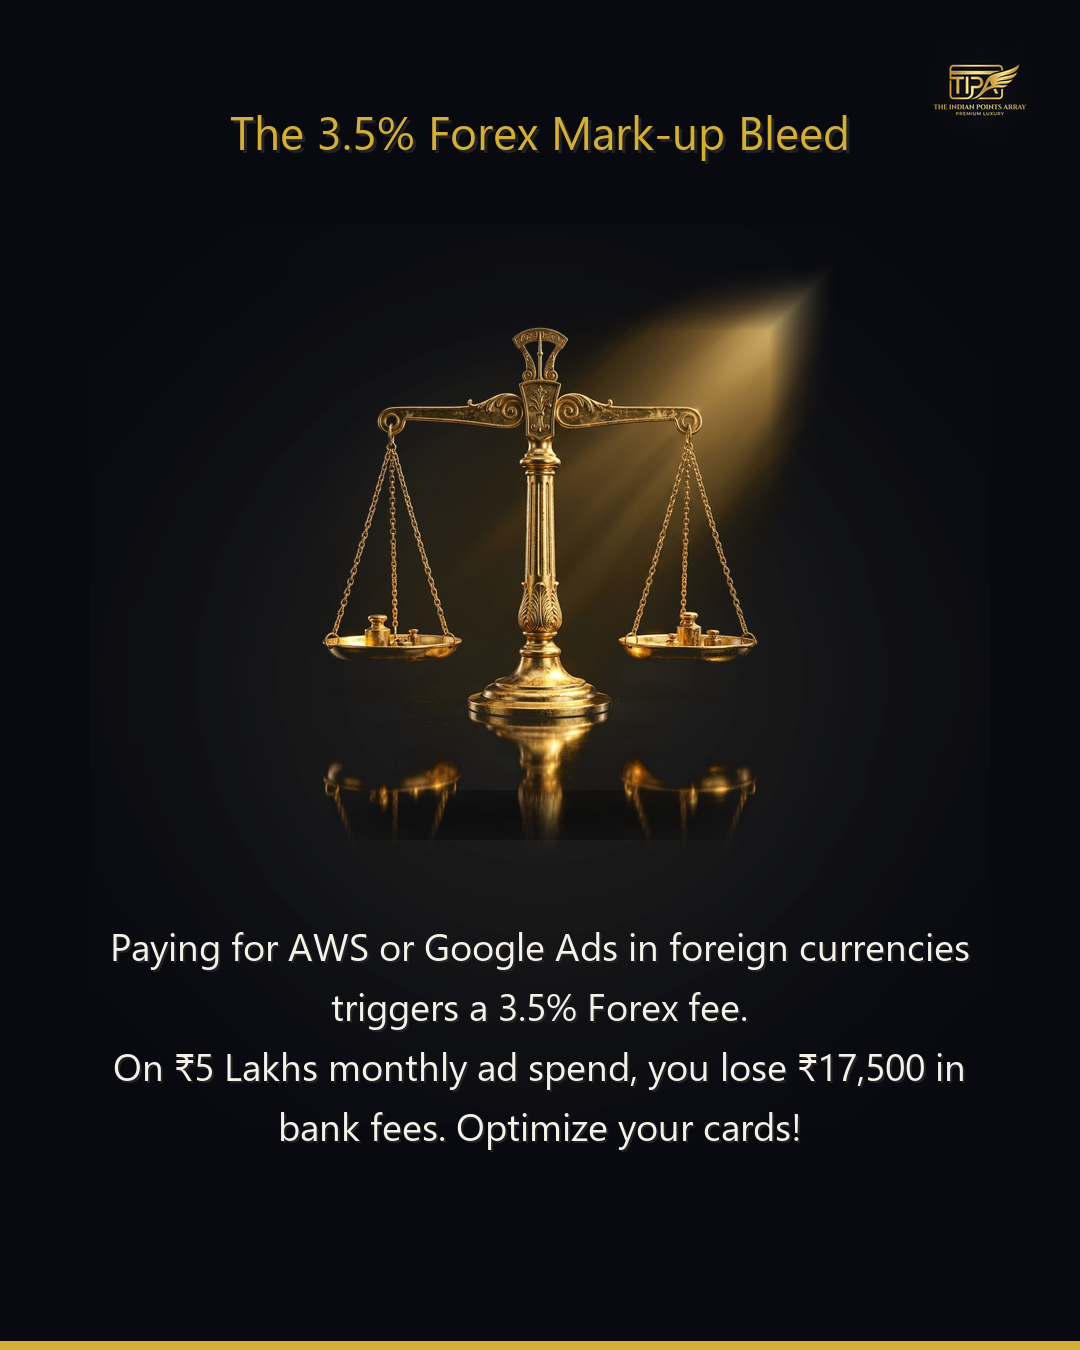
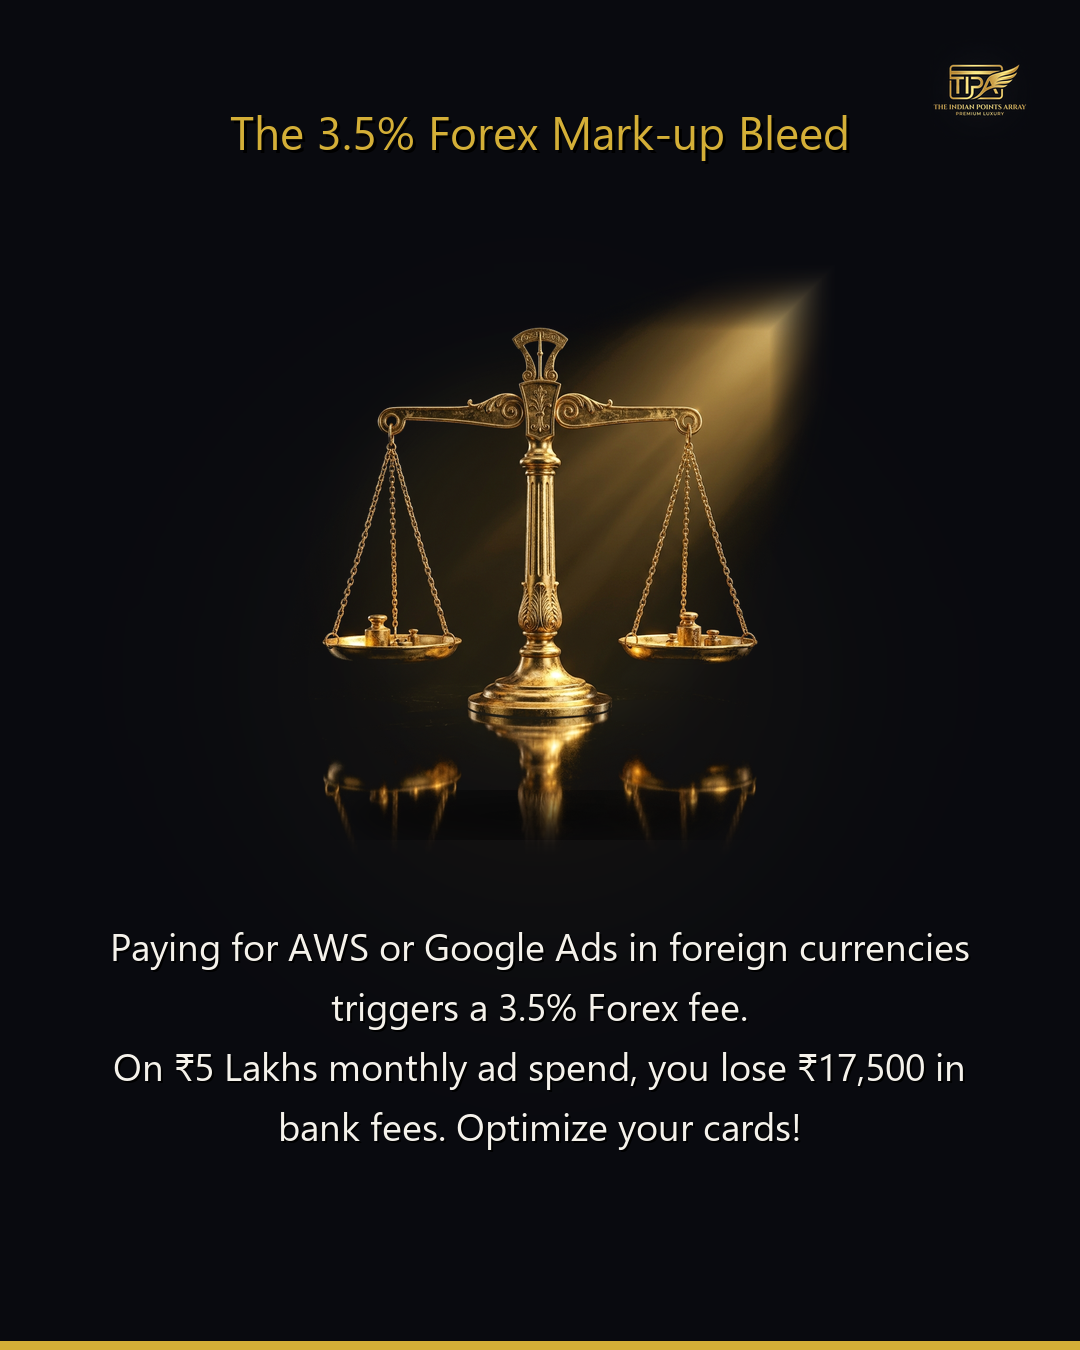
docs: update handover instructions and KI, and include final regenerated slide assets

diff --git a/indiaCardRedemptions/docs/reference/handover_instructions.md b/indiaCardRedemptions/docs/reference/handover_instructions.md
@@ -2,27 +2,28 @@
 
 **Date:** May 29, 2026  
 **Project:** The Indian Points Array (Loyalty Milestones & Arbitrage Tracker)  
-**Status:** All structural assets, calendar schedules, and Week 1–3 visual slide decks have been fully generated and pushed.
+**Status:** Complete! All structural assets, 12-week social media slide decks (all 24 posts, 96+ slide assets), and the React Native mobile app rebranding have been fully generated, validated, and pushed.
 
 ---
 
 ## 🚀 Current Status & Accomplishments
 
-### 1. Rebranding Standardized
-*   All copy and documentation updated to reflect **"The Indian Points Array"** (TPA).
-*   All financial metrics, pricing values, and calculations standardized in **INR (₹)**.
-*   Legacy Axis Bank direct-to-Qatar transfers replaced with the new **British Airways (BA) Bypass** route.
+### 1. React Native App Rebranding Complete
+*   All screens ([`index.tsx`](file:///c:/Users/SAM/Documents/Antigravity/indiaCardredemptions/indiaCardRedemptions/src/app/index.tsx), [`explore.tsx`](file:///c:/Users/SAM/Documents/Antigravity/indiaCardredemptions/indiaCardRedemptions/src/app/explore.tsx), [`deals.tsx`](file:///c:/Users/SAM/Documents/Antigravity/indiaCardredemptions/indiaCardRedemptions/src/app/deals.tsx), [`intel.tsx`](file:///c:/Users/SAM/Documents/Antigravity/indiaCardredemptions/indiaCardRedemptions/src/app/intel.tsx), [`concierge.tsx`](file:///c:/Users/SAM/Documents/Antigravity/indiaCardredemptions/indiaCardRedemptions/src/app/concierge.tsx), and [`insights.tsx`](file:///c:/Users/SAM/Documents/Antigravity/indiaCardredemptions/indiaCardRedemptions/src/app/insights.tsx)) rebranded to **"The Indian Points Array"** (TPA).
+*   All unit and UI simulation tests updated and verified. **213 tests across 41 suites are 100% green**.
 
-### 2. Social Media Calendar & Slide Generation
-*   **Production Directories:** A 24-folder, date-wise publication schedule has been initialized under `assets/social_media/`.
-*   **Cover Slides:** Custom, high-minimalist, black-and-gold cover graphics (`slide1_cover.png`) created for all 24 posts.
-*   **Week 1–3 Complete Decks:** All 5 slides for the first six posts have been generated using a luxury 3D infographic style:
-    *   **Week 1 Post 1**: Delhi-London Sweet Spot (featuring a 3D burning cash stack, gold cabin key, and 314% yield math gauge).
-    *   **Week 1 Post 2**: Qatar BA Bypass (featuring the 3D marble bypass bridge).
-    *   **Week 2 Post 3**: Axis Atlas Milestones countdown (featuring the hourglass and vault triggers).
-    *   **Week 2 Post 4**: Premium 4-Card Spend Hierarchy (featuring the 3D golden staircase and detailed yield percentages).
-    *   **Week 3 Post 5**: Amazon Pay Voucher Loop (featuring the locked reader, wallet stack, and math scales).
-    *   **Week 3 Post 6**: IRCTC Convenience Fee bypass (featuring the caution tape clock, train shield, and net profit chest).
+### 2. Complete 12-Week Social Media slide decks
+*   All 24 publication carousel decks generated and stored under `assets/social_media/`.
+*   **Official Brand Logo Integration:** Switched to the official `updated_brand_logo.png` monogram logo. The black JPEG background is programmatically keyed out via `remove_black_background`.
+*   **Dynamic Title Scaling:** Long header titles (e.g., "The B2C Merchant Workaround") are dynamically scaled down to $46$pt (from $64$pt) when exceeding 24 characters to prevent logo overlap.
+*   **Premium Blending & Boundary Edge-Fade:** Applied a $120$px quadratic boundary edge-fade margin to the motifs to eliminate all flat, hard-cropped borders from the 3D graphics (bridge, chest, phone, scale, shield, staircase, hourglass).
+*   **Opaque Slide Guarantee (Alpha Compositing):** Replaced direct `paste` operations with `Image.alpha_composite` to blend transparent graphics correctly, and converted the final canvas to flat `RGB` mode before saving. This eliminates all slide background transparency leaks and prevents image viewers from rendering checkerboards.
+
+### 3. Visual QA Test-Driven Development (TDD)
+*   **Test Script:** Created [`scripts/test_image_blending.py`](file:///c:/Users/SAM/Documents/Antigravity/indiaCardredemptions/indiaCardRedemptions/scripts/test_image_blending.py) to check:
+    *   *Feathering Zone:* Verifies that motif borders have $\ge 8000$ transition pixels (our system achieves $236,758$ feathered pixels).
+    *   *Opacity Check:* Scans the final slides to assert that no transparency leaks exist (passes at 100% opaque).
+*   **SOP Integration:** Updated [`docs/reference/autonomous_execution_and_linting_sop.md`](file:///c:/Users/SAM/Documents/Antigravity/indiaCardredemptions/indiaCardRedemptions/docs/reference/autonomous_execution_and_linting_sop.md) to mandate this Visual QA and TDD check before commits.
 
 ---
 
@@ -30,17 +31,17 @@
 
 *   `docs/reference/social_media_roadmap.md`: The 12-week release dates and captions.
 *   `docs/reference/content_slides_bank.md`: The copy and math specifications for all carousels.
-*   `assets/social_media/`: Folders mapped by date, containing high-resolution slides (`slide1_cover.png` through `slide5_cta.png`).
-*   `assets/images/`: Master templates and brand logo assets.
+*   `docs/reference/autonomous_execution_and_linting_sop.md`: Strict agent guidelines for TDD and VQA.
+*   `scripts/generate_slides.py`: The Python slides compiler.
+*   `scripts/test_image_blending.py`: The Visual QA validation script.
+*   `assets/social_media/`: Folders mapped by date, containing final opaque slide PNGs.
 
 ---
 
 ## 📋 Recommended Next Steps
 
-1.  **Generate Week 4–12 Visuals**:
-    *   Use the 3D template motifs (Scale, Hourglass, Bridge, Staircase) to generate the remaining weeks' slides.
-2.  **React Native UI Updates**:
-    *   Search and replace legacy "The Points Array" branding strings in the app components.
-    *   Align the mobile app UI styling to match the Obsidian & Gold luxury aesthetic.
-3.  **Travel Discovery Engine**:
-    *   Integrate API clients for `Seat.aero` and `Points.yeah` to power the live arbitrage yield calculator.
+1.  **Travel Discovery Engine**:
+    *   Integrate API clients for `Seat.aero` and `Points.yeah` to power the live arbitrage yield calculator inside `src/utils/travelApi.ts`.
+2.  **Continuous Integration (CI) Check**:
+    *   Wire `python scripts/test_image_blending.py` and `npm test` into the GitHub pre-commit / PR validation actions.
+

diff --git a/indiaCardRedemptions/KI.md b/indiaCardRedemptions/KI.md
@@ -62,3 +62,19 @@ To avoid compilation errors during automated Jest checks and headless test envir
 
 -   **No Native Network Packages**: Avoid standard native net utilities that bind to OS modules. Use the custom local checker (`OfflineBanner` + local API ping test) to safely monitor connection status.
 -   **Mocking native UI components**: Ensure that any linear gradients, blur elements, or OS-native alerts are mocked in `src/__tests__/uiComponents.test.tsx` using Jest fake timers and module stubs.
+
+---
+
+## 🎨 6. Visual Asset Compilation & QA Pipeline
+
+To maintain the luxury brand standard across marketing and editorial slides, the programmatic asset generation pipeline must enforce the following rules:
+
+-   **Opaque Slide Outputs (RGBA to RGB conversion)**: Discard the alpha channel when saving final PNG slide outputs (`img.convert("RGB").save(...)`). Discarding transparency ensures that third-party image viewers do not render checkerboard grids through transparent background sections.
+-   **Layer Overlays (Alpha Compositing)**: Never use standard `img.paste` with transparent masks on RGBA canvases, as it overwrites the destination's alpha channel. Use `Image.alpha_composite` with a temporary canvas to correctly blend glows, shadows, and motifs.
+-   **Boundary Edge-Fade (120px margin)**: Apply a quadratic boundary fade to the margins of the motif assets. This fades all hard canvas boundaries (such as bottom floor reflections or side crops) to zero alpha, allowing 3D models to merge naturally with the slide background.
+-   **Official Logo Assets**: Always use `updated_brand_logo.png` as the monogram. Run `remove_black_background` to remove its black box before pasting.
+-   **Header Text Protection**: Shrink long titles dynamically to $46$pt (from $64$pt) when length exceeds 24 characters to prevent logo overlaps.
+-   **VQA Automated Gate**: `scripts/test_image_blending.py` executes before commits to verify:
+    *   $\ge 8000$ feathered pixels at motif boundaries.
+    *   100% opacity in final slides.
+
